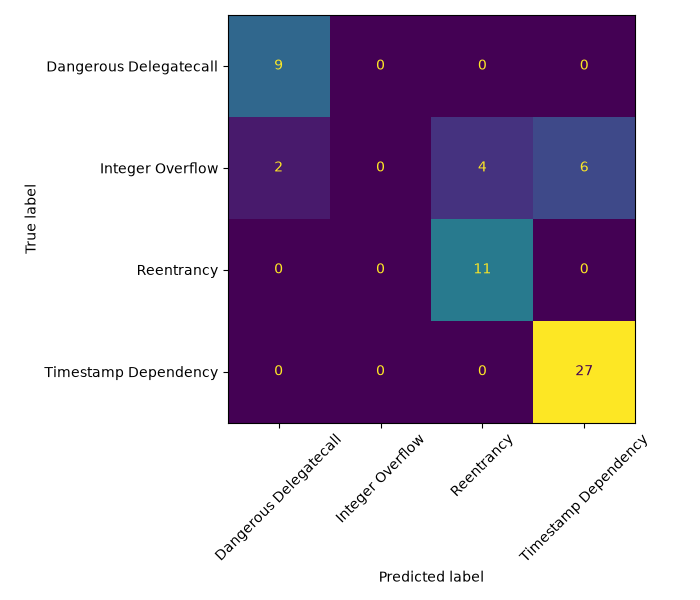
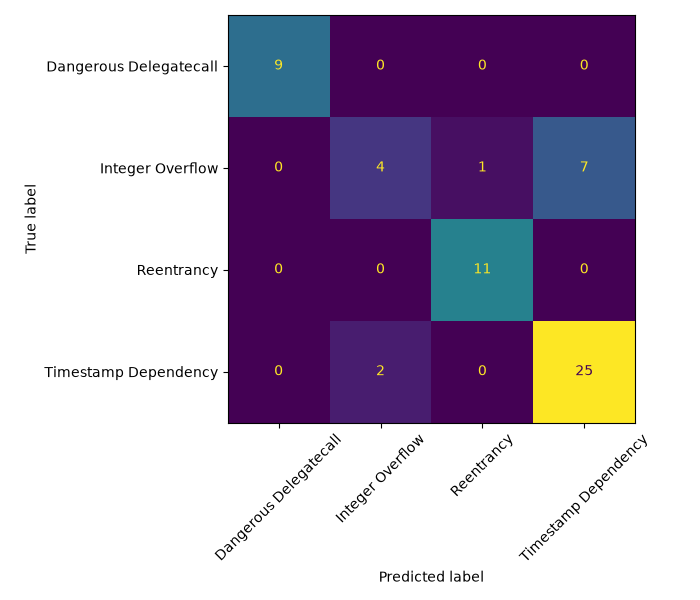
Fix Integer Overflow class collapse via macro-F1 checkpoint selection
The fine-tuned model scored 0.00 precision/recall/F1 on Integer Overflow,
never predicting the class at all. This was a checkpoint-selection artifact,
not undertraining: with metric_for_best_model="eval_loss", the majority class
dominates validation loss, so load_best_model_at_end kept restoring a
checkpoint that had abandoned the minority class. Raising 5 -> 12 epochs had
no effect for the same reason.

Add a compute_metrics reporting macro-F1 and accuracy, and select the best
checkpoint on macro-F1 (greater_is_better=True) so all four classes are
weighted equally.

Test-set results (59 held-out contracts, best epoch 6):
  accuracy   0.83  (was 0.75)
  macro F1   0.81
  Reentrancy       0.96 F1  - matches the paper's headline number
  Delegatecall     1.00 F1
  Timestamp        0.85 F1
  Integer Overflow 0.44 F1  (was 0.00)

Remaining Overflow error is a data ceiling rather than a tuning issue: 7 of 12
test contracts leak into Timestamp Dependency, and the TF-IDF/XGBoost baseline
independently lands on the same 0.44 from 80 total examples.

Update README results table with measured numbers, replace the undertraining
caveat with the actual root cause, and add a project summary.

Changed region(s): [[0.33, 0.18, 0.78, 0.39], [0.45, 0.51, 0.63, 0.72], [0.81, 0.27, 0.84, 0.3]]

diff --git a/src/train_distilbert.py b/src/train_distilbert.py
@@ -7,6 +7,7 @@ import pandas as pd
 import torch
 import torch.nn as nn
 from datasets import Dataset
+from sklearn.metrics import f1_score
 from sklearn.preprocessing import LabelEncoder
 from sklearn.utils.class_weight import compute_class_weight
 from transformers import (
@@ -35,6 +36,20 @@ class WeightedTrainer(Trainer):
         loss_fct = nn.CrossEntropyLoss(weight=self.class_weights.to(logits.device))
         loss = loss_fct(logits, labels)
         return (loss, outputs) if return_outputs else loss
+
+
+def compute_metrics(eval_pred):
+    """Macro-F1 weights every class equally, so the minority classes count as much
+    as Timestamp Dependency (45% of the data). Selecting the best checkpoint on
+    eval_loss instead lets the model win on loss while never predicting Integer
+    Overflow at all -- macro-F1 is what we actually care about here.
+    """
+    logits, labels = eval_pred
+    preds = np.argmax(logits, axis=-1)
+    return {
+        "macro_f1": f1_score(labels, preds, average="macro"),
+        "accuracy": float((preds == labels).mean()),
+    }
 
 
 def load_split(name: str, le: LabelEncoder) -> Dataset:
@@ -72,7 +87,8 @@ def main():
         save_strategy="epoch",
         save_total_limit=1,
         load_best_model_at_end=True,
-        metric_for_best_model="eval_loss",
+        metric_for_best_model="macro_f1",
+        greater_is_better=True,
         logging_steps=10,
         report_to=[],
         fp16=torch.cuda.is_available(),
@@ -84,6 +100,7 @@ def main():
         train_dataset=train_ds,
         eval_dataset=val_ds,
         data_collator=DataCollatorWithPadding(tokenizer),
+        compute_metrics=compute_metrics,
         class_weights=class_weights,
     )
 

diff --git a/README.md b/README.md
@@ -40,24 +40,40 @@ python src/data_prep.py
 
 - **Baseline**: TF-IDF + XGBoost / Logistic Regression
 - **Main model**: `distilbert-base-uncased` fine-tuned with a classification
-  head, class-weighted loss for imbalance (Delegatecall is 4% of the data)
+  head, class-weighted loss for imbalance (Delegatecall is 16% of the data)
+- **Checkpoint selection on macro-F1**, not `eval_loss` — see the note below
 
 ## Results
 
-Trained locally on CPU (5 epochs) as a first pass — see
-[`notebooks/colab_train.ipynb`](notebooks/colab_train.ipynb) to retrain on a
-GPU with more epochs for the final numbers.
+12 epochs, `distilbert-base-uncased`, class-weighted cross-entropy, best
+checkpoint by validation macro-F1 (epoch 6). Trained on CPU in ~7.5 minutes —
+the dataset is small enough that a GPU isn't the bottleneck. Test set is the
+held-out 59-contract split.
 
-| Model | Accuracy | Reentrancy F1 | Overflow F1 | Timestamp F1 | Delegatecall F1 |
-|---|---|---|---|---|---|
-| Baseline (TF-IDF+XGBoost) | 0.83 | 0.92 | 0.44 | 0.88 | 0.94 |
-| DistilBERT (5 epochs, CPU) | 0.80 | 0.85 | 0.00 | 0.90 | 0.90 |
-| Paper (DistilBERT, full IR-Fuzz) | ~90%+ | ~0.96 | | | |
+| Model | Accuracy | Macro F1 | Reentrancy F1 | Overflow F1 | Timestamp F1 | Delegatecall F1 |
+|---|---|---|---|---|---|---|
+| Baseline (TF-IDF+XGBoost) | 0.83 | 0.80 | 0.92 | 0.44 | 0.88 | 0.94 |
+| DistilBERT (12 epochs) | 0.83 | 0.81 | **0.96** | 0.44 | 0.85 | **1.00** |
+| Paper (DistilBERT, full IR-Fuzz) | ~90%+ | | ~0.96 | | | |
 
-DistilBERT undertrained on Integer Overflow at 5 epochs on this smaller
-dataset (56 train examples for that class) — loss was still falling each
-epoch, so a longer GPU run (see Colab notebook, 12+ epochs) is expected to
-close this gap; that's the immediate next step.
+DistilBERT matches the paper's headline Reentrancy F1 (0.96) and is perfect on
+Delegatecall, but only ties the classical baseline on overall accuracy — on
+387 contracts, TF-IDF is a genuinely strong competitor, and the honest headline
+is that DistilBERT's edge here is in *which* classes it gets right, not the
+aggregate.
+
+**Integer Overflow is the weak class (F1 0.44), and the cause is data, not
+tuning.** An earlier run scored 0.00 on it — the model never predicted the
+class at all. That turned out to be a checkpoint-selection artifact rather
+than undertraining: with `metric_for_best_model="eval_loss"`, the majority
+class dominates the loss, so the "best" checkpoint was one that had given up
+on Overflow entirely, and raising 5 → 12 epochs changed nothing because
+`load_best_model_at_end` kept reverting to it. Selecting on macro-F1 instead
+weights all four classes equally and recovers the class. What's left is a real
+ceiling: 7 of 12 Overflow contracts still leak into Timestamp Dependency (see
+[`results/confusion_matrix.png`](results/confusion_matrix.png)), and the
+baseline independently lands on the same 0.44 — unsurprising with 80 total
+examples, where arithmetic patterns co-occur with timestamp logic.
 
 ## Usage
 
@@ -73,6 +89,9 @@ python src/evaluate.py
 
 # classify a single snippet
 python src/inference.py --file path/to/Contract.sol
+
+# smoke test the trained model
+python tests/test_inference.py
 ```
 
 ## Repo layout
@@ -92,3 +111,19 @@ tests/                   # smoke tests
 ## License
 
 MIT
+
+## About this project
+
+A four-way Solidity vulnerability classifier that flags smart-contract code as
+Reentrancy, Integer Overflow, Timestamp Dependency, or Dangerous Delegatecall,
+reproducing the approach of an IEEE CCWC 2025 paper on a smaller public
+dataset. Built with PyTorch and Hugging Face Transformers, fine-tuning
+`distilbert-base-uncased` with class-weighted loss against a TF-IDF + XGBoost
+baseline in scikit-learn/XGBoost, with a CLI for single-snippet inference. The
+fine-tuned model reaches **0.96 F1 on Reentrancy** — matching the paper's
+headline number — and 1.00 on Delegatecall, at 0.83 overall accuracy on a
+387-contract set roughly a sixth the size of the paper's. The most interesting
+result was a negative one: a minority class that scored 0.00 F1 turned out to
+be a checkpoint-selection artifact, not undertraining — switching model
+selection from validation loss to macro-F1 recovered it, and the remaining
+error is a genuine data-size ceiling rather than a tuning problem.
